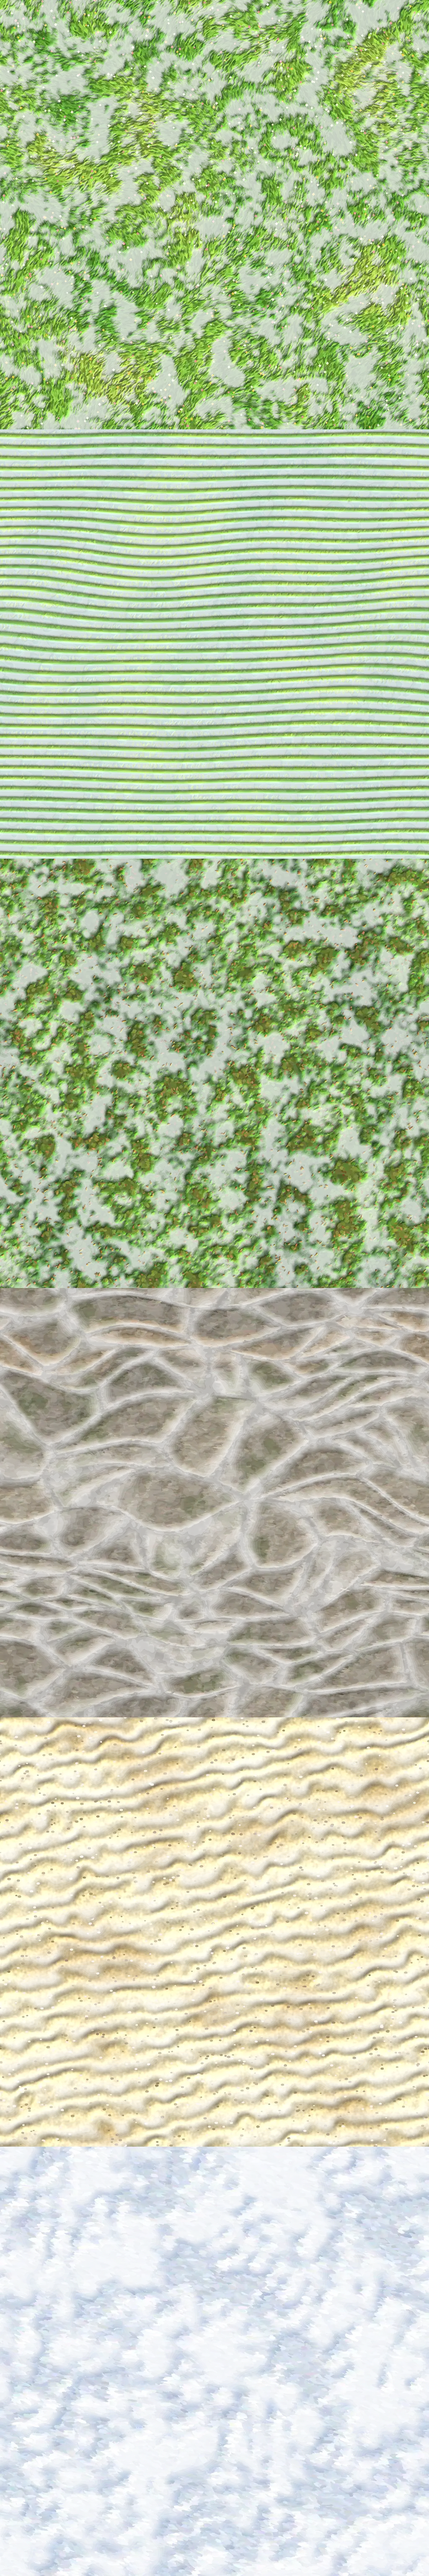
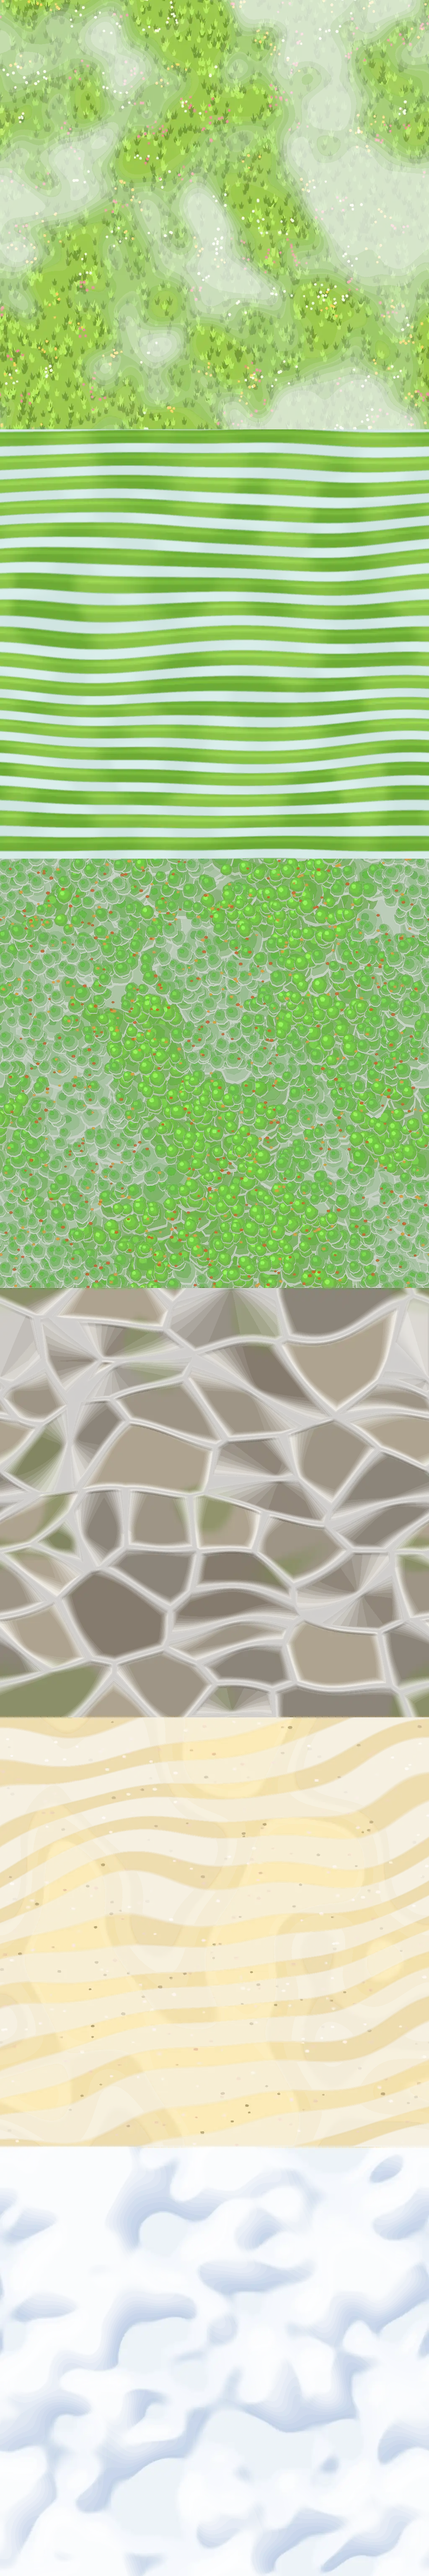
地表贴图重画成卡通平涂风；修复高档画质下网格法线 NaN 导致大区视图陆地不显示

diff --git a/v2-civ/src/terrain.js b/v2-civ/src/terrain.js
@@ -116,21 +116,21 @@ const vec3 C_OCEAN = ${S('#0b3f78')};
 const vec3 C_OCEAN2 = ${S('#123f86')};
 const vec3 C_COAST = ${S('#1db3bd')};
 const vec3 C_LAKE  = ${S('#1fa2b4')};
-const vec3 C_GRASS = ${S('#62922e')};
-const vec3 C_PLAIN = ${S('#a39d3e')};
-const vec3 C_MARSH = ${S('#5b8b55')};
-const vec3 C_WOODG = ${S('#466f2a')};
+const vec3 C_GRASS = ${S('#78ad36')};
+const vec3 C_PLAIN = ${S('#b7b04a')};
+const vec3 C_MARSH = ${S('#62a065')};
+const vec3 C_WOODG = ${S('#4c8a2e')};
 const vec3 C_URBAN = ${S('#8d8466')};
 const vec3 C_DIST  = ${S('#a39674')};
 const vec3 C_SAND  = ${S('#dfcc90')};
 const vec3 C_ROCK  = ${S('#8a8274')};
 const vec3 C_PAPER = ${S('#e4d0a4')};
-const vec3 M_GRASS = ${M(94.0, 142.1, 49.5)};
-const vec3 M_PADDY = ${M(112.2, 162.4, 105.5)};
-const vec3 M_FOREST = ${M(77.6, 116.5, 44.8)};
-const vec3 M_ROCK = ${M(127.6, 120.0, 104.1)};
-const vec3 M_SAND = ${M(217.7, 202.7, 152.4)};
-const vec3 M_SNOW = ${M(213.1, 222.0, 234.8)};
+const vec3 M_GRASS = ${M(125.6, 176.6, 63.9)};
+const vec3 M_PADDY = ${M(127.3, 187.8, 110.9)};
+const vec3 M_FOREST = ${M(84.8, 152.5, 52.3)};
+const vec3 M_ROCK = ${M(138.9, 132.0, 115.2)};
+const vec3 M_SAND = ${M(235.0, 214.7, 159.7)};
+const vec3 M_SNOW = ${M(228.4, 235.9, 245.5)};
 
 vec2 gdx, gdy; // screen derivatives of world xz, taken once in uniform control flow
 vec4 layer(float L, vec2 p, float tile){ return textureGrad(uTerr, vec3(p / tile, L), gdx / tile, gdy / tile); }
@@ -140,15 +140,8 @@ vec4 layer2(float L, vec2 p, float tile){
 #ifndef MOBILE
   vec2 q = mat2(0.8, -0.6, 0.6, 0.8) * p + 13.7;
   vec4 b = textureGrad(uTerr, vec3(q / (tile * 3.3), L), mat2(0.8, -0.6, 0.6, 0.8) * gdx / (tile * 3.3), mat2(0.8, -0.6, 0.6, 0.8) * gdy / (tile * 3.3));
-  a = mix(a, b, 0.32);
-  // close up: a finer, rotated octave of the same strokes, so a texel never covers several pixels at street level
-  float fine = 1.0 - smoothstep(0.012, 0.05, max(length(gdx), length(gdy)) / tile * 4.0);
-  if (fine > 0.01) {
-    vec2 q2 = mat2(0.6, 0.8, -0.8, 0.6) * p - 5.3;
-    vec4 c = textureGrad(uTerr, vec3(q2 / (tile * 0.31), L), mat2(0.6, 0.8, -0.8, 0.6) * gdx / (tile * 0.31), mat2(0.6, 0.8, -0.8, 0.6) * gdy / (tile * 0.31));
-    a.rgb = mix(a.rgb, a.rgb * (0.78 + 0.44 * c.a), 0.55 * fine);
-    a.a = mix(a.a, a.a * 0.7 + c.a * 0.3, fine);
-  }
+  // the cartoon layers are flat colour shapes: a light macro mix only breaks the repeat, it must not blur the shapes
+  a = mix(a, b, 0.18);
 #endif
   return a;
 }
@@ -239,14 +232,13 @@ const FRAG_MAIN = /* glsl */`
   gTint = mix(gTint, C_MARSH, clamp(bB.z * 1.2, 0.0, 0.8));
   gTint = mix(gTint, gTint * vec3(0.86, 0.94, 0.86), smoothstep(80.0, 600.0, hM));
   float lush = smoothstep(0.35, 0.7, fbm3(p * 0.045 + 21.0));
-  gTint = mix(gTint, ${S('#457f2c')}, lush * (1.0 - dry) * 0.6);
-  gTint *= 0.84 + 0.3 * m1;
+  gTint = mix(gTint, ${S('#5a9a30')}, lush * (1.0 - dry) * 0.45);
+  gTint *= 0.93 + 0.14 * m1;
   vec4 tG = layer2(0.0, p, 6.5);
   float hB = hgt(tG);
-  // texture brings mostly value (light/dark strokes) and only a little of its own hue, so the tint stays in charge
+  // cartoon set: the painted colour shapes carry the look; the regional tint only nudges their hue
   vec3 gr = tG.rgb / M_GRASS;
-  vec3 gDet = mix(vec3(dot(gr, vec3(0.3, 0.55, 0.15))), gr, 0.35);
-  col = gTint * mix(vec3(1.0), gDet, mix(0.45, 0.75, detail));
+  col = gTint * mix(vec3(1.0), gr, mix(0.6, 1.0, detail));
 
   // forest floor under woods and hills, with clearings
   float wF = clamp((bA.w + bB.x * 0.85 + bB.y * 0.5) * smoothstep(0.32, 0.6, fbm3(p * 0.11 + 11.0) + 0.12), 0.0, 1.0);
@@ -461,7 +453,8 @@ export function makeTerrainMaterial(shared, mobile) {
       // the mesh's own small relief (World.meshY, street-level chunks) on top of the baked normal: the vertex normal's
       // difference from the baked one, faded with distance like the other fine detail
       .replace('#include <normal_fragment_maps>', `vec3 nMesh = normalize((vec4(normal, 0.0) * viewMatrix).xyz);
-        vec3 tNr = normalize(tN + (nMesh - tNT) * 0.85 * (1.0 - smoothstep(60.0, 160.0, uCamDist)));
+        vec3 tNr = tN + (nMesh - tNT) * 0.85 * (1.0 - smoothstep(60.0, 160.0, uCamDist));
+        tNr = dot(tNr, tNr) > 1e-6 && tNr.y > 0.05 ? normalize(tNr) : tN;   // never a zero or downward normal (NaN in the HDR target blew up the bloom pass)
         normal = normalize((viewMatrix * vec4(tNr, 0.0)).xyz);`)
       .replace('#include <emissivemap_fragment>', '#include <emissivemap_fragment>\ntotalEmissiveRadiance += tEmis;');
   };

diff --git a/v2-civ/scripts/paint_textures.py b/v2-civ/scripts/paint_textures.py
@@ -111,148 +111,160 @@ def voronoi(n_pts, seed):
     return d[:, 0].reshape(N, N), d[:, 1].reshape(N, N), i[:, 0].reshape(N, N), r
 
 
-# ---------------------------------------------------------------- 各层
-def grass():
-    n1, n2, n3 = noise(2, 6, 1), noise(6, 18, 2), noise(18, 60, 3)
-    base = lerp(hexc('#4f8c2c'), hexc('#79ad3c'), sstep(-1.2, 1.2, n1 * 0.8 + n2 * 0.4))
-    base = lerp(base, hexc('#9fb84a'), sstep(0.9, 1.8, n1 + n3 * 0.3) * 0.7)   # 偏黄的亮斑
-    base = lerp(base, hexc('#3b7428'), sstep(0.6, 1.6, -n2 + n3 * 0.3) * 0.8)  # 深色草丛
-    base *= poster(sstep(-2, 2, n2 + n3 * 0.5), 5, 0.3)[..., None] * 0.22 + 0.89
-    ang = noise(1, 4, 9) * 0.9 - np.pi / 2  # 叶片大体朝上，局部有流向
-    img = to_img(base)
-    strokes(img, lambda x, y: base[y, x], 26000, 11, (10, 22), (3, 6), lambda x, y: ang[y, x], 0.07)
-    strokes(img, lambda x, y: base[y, x] * 1.16, 5000, 12, (8, 16), (2.5, 4.5), lambda x, y: ang[y, x], 0.05)   # 高光叶
-    strokes(img, lambda x, y: base[y, x] * 0.72, 4000, 13, (8, 16), (3, 5), lambda x, y: ang[y, x], 0.05)    # 暗叶
-    c = from_img(img)
-    h = sstep(-1.5, 1.5, n2 * 0.7 + n3 * 0.6 + (c.mean(2) - c.mean()) * 6)
-    c *= shade(h, 0.5)[..., None]
-    # 小花
-    r = np.random.default_rng(14); d = ImageDraw.Draw(img := to_img(c))
-    for _ in range(int(260 * S * S)):
+# ---------------------------------------------------------------- 各层（卡通风，2026-11-18 重画）
+# 风格：大块平涂色面（3–4 个色阶，边缘柔和但清楚），大而圆润的形状，少量干净的高光 / 暗部笔触，
+# 不要照片式的细碎噪点。A 通道（高度）用同样的大形状，让层与层之间的高度混合沿着形状边缘咬合。
+
+def bands(x, cols, soft=0.06):
+    """x（任意范围）按 len(cols) 个阈值平涂上色：相邻色块之间一条窄的柔边"""
+    q = np.quantile(x, np.linspace(0, 1, len(cols) + 1)[1:-1])
+    out = np.broadcast_to(hexc(cols[0]), x.shape + (3,)).copy()
+    for t, c in zip(q, cols[1:]):
+        out = lerp(out, hexc(c), sstep(t - soft, t + soft, x))
+    return out
+
+
+def blobs(img_rgb, n, seed, r_rng, color_at, squash=1.0, mask=None, rot=None):
+    """圆润色块（卡通的草团 / 树冠 / 石块）：上半亮、下半暗的两色块，带一条深色描边"""
+    r = np.random.default_rng(seed)
+    img = to_img(img_rgb)
+    d = ImageDraw.Draw(img)
+    for _ in range(int(n * S * S)):
         x, y = r.random() * N, r.random() * N
-        col = [(244, 238, 214), (246, 206, 70), (236, 150, 160)][r.integers(3)]
-        s = r.uniform(2.2, 3.6) * S
-        wrap_draw(d, [(x - s, y), (x, y - s), (x + s, y), (x, y + s)], col)
+        ix, iy = int(x) % N, int(y) % N
+        if mask is not None and r.random() > mask[iy, ix]: continue
+        rad = r.uniform(*r_rng) * S
+        base = color_at(ix, iy)
+        k = 10
+        a0 = rot if rot is not None else r.random() * np.pi
+        jit = 1 + r.normal(0, 0.06, k)
+        def poly(sc, dx=0.0, dy=0.0):
+            return [(x + dx + np.cos(t + a0) * rad * sc * jit[i], y + dy + np.sin(t + a0) * rad * sc * squash * jit[i])
+                    for i, t in enumerate(np.linspace(0, 2 * np.pi, k, endpoint=False))]
+        col = lambda c: tuple(int(v) for v in np.clip(c * 255, 0, 255))
+        wrap_draw(d, poly(1.08, 0, rad * 0.12), col(base * 0.55))          # 描边 / 投影（略向下）
+        wrap_draw(d, poly(1.0), col(base * 0.86))                           # 暗面
+        wrap_draw(d, poly(0.72, -rad * 0.12, -rad * 0.16), col(base))       # 亮面
+        wrap_draw(d, poly(0.3, -rad * 0.3, -rad * 0.34), col(np.minimum(base * 1.18 + 0.03, 1)))   # 高光
+    return from_img(img)
+
+
+def grass():
+    # 平涂草地：三个色阶的大色块 + 稀疏的“草簇”记号（Λ 形三笔），远看干净，近看有手绘感
+    n1, n2 = noise(1, 4, 101), noise(4, 10, 102)
+    f = n1 + n2 * 0.45
+    c = bands(f, ['#5f9a32', '#74ad3a', '#86bc43', '#9bc94c'], 0.05)
+    h = sstep(-1.6, 1.6, f)
+    img = to_img(c); d = ImageDraw.Draw(img)
+    r = np.random.default_rng(103)
+    for _ in range(int(650 * S * S)):
+        x, y = r.random() * N, r.random() * N
+        ix, iy = int(x) % N, int(y) % N
+        base = c[iy, ix]
+        L = r.uniform(15, 24) * S; W = 2.6 * S
+        dark = r.random() < 0.6
+        col = tuple(int(v) for v in np.clip((base * (0.78 if dark else 1.16) + (0 if dark else 0.02)) * 255, 0, 255))
+        for a in (-0.45, 0.0, 0.45):            # 三片叶：中间高、两边斜，从同一个根部长出
+            l = L * (1.0 if a == 0 else 0.7)
+            aa = -np.pi / 2 + a + r.normal(0, 0.08)
+            tip = (x + np.cos(aa) * l, y + np.sin(aa) * l)
+            nx, ny = -np.sin(aa) * W, np.cos(aa) * W
+            mid = (x + np.cos(aa) * l * 0.45, y + np.sin(aa) * l * 0.45)
+            wrap_draw(d, [(x - nx, y - ny), (mid[0] - nx * 0.8, mid[1] - ny * 0.8), tip, (mid[0] + nx * 0.8, mid[1] + ny * 0.8), (x + nx, y + ny)], col)
+    # 小花：少量、成簇
+    for _ in range(int(40 * S * S)):
+        cx, cy = r.random() * N, r.random() * N
+        col = [(250, 244, 222), (250, 214, 84), (238, 140, 150)][r.integers(3)]
+        for _ in range(r.integers(3, 7)):
+            x, y = cx + r.normal(0, 14 * S), cy + r.normal(0, 14 * S); s = r.uniform(2.6, 3.8) * S
+            wrap_draw(d, [(x + np.cos(t) * s, y + np.sin(t) * s) for t in np.linspace(0, 6.28, 6, endpoint=False)], col)
     return from_img(img), h
 
 
 def paddy():
-    # 一排排秧苗（纹理里横向成行），行间露水；A 通道 = 秧苗覆盖
-    n1, n2 = noise(2, 8, 21), noise(10, 40, 22)
-    rows = 40                       # 每张图 40 行
-    yy = (np.arange(N)[:, None] + noise(1, 3, 23) * 6 * S) / N * rows
-    rowm = sstep(0.18, 0.42, 0.5 - np.abs((yy % 1) - 0.5)) * np.ones((1, N))
-    base = lerp(hexc('#5d9a33'), hexc('#8fbd45'), sstep(-1.5, 1.5, n1 + n2 * 0.4))
-    water = lerp(hexc('#5a8c84'), hexc('#8ab8b0'), sstep(-1, 1.5, n2))
-    c = lerp(water, base, rowm)
-    img = to_img(c)
-    r = np.random.default_rng(24)
-    d = ImageDraw.Draw(img)
-    # 每行上的秧苗簇：几片向上张开的叶
-    for row in range(rows):
-        y0 = (row + 0.5) / rows * N
-        x = r.random() * 8 * S
-        while x < N:
-            ix = int(x) % N; iy = int(y0) % N
-            col0 = base[iy, ix]
-            for k in range(4):
-                a = -np.pi / 2 + r.normal(0, 0.55)
-                L, W = r.uniform(7, 13) * S, r.uniform(2, 3.5) * S
-                cx, cy = x + r.normal(0, 1.2) * S, y0 + (r.normal(0, 1.5) + 2) * S
-                col = tuple(int(v) for v in np.clip(col0 * (1 + r.normal(0, 0.09)) * (1.1 if k == 0 else 0.92) * 255, 0, 255))
-                ca, sa = np.cos(a), np.sin(a)
-                pts = [(0, 0), (L * 0.45, -W * 0.5), (L, 0), (L * 0.45, W * 0.5)]
-                wrap_draw(d, [(cx + px * ca - py * sa, cy + px * sa + py * ca) for px, py in pts], col)
-            x += r.uniform(9, 14) * S
-    c = from_img(img)
-    h = np.clip(rowm * 0.75 + sstep(-1, 1, n2) * 0.2 + (c.mean(2) - water.mean(2)) * 0.8, 0, 1)
-    c *= shade(h, 0.35)[..., None]
+    # 水田：平涂的秧苗行（两种绿）+ 行间亮青色水面，行稍有弯曲；不再是细密条纹
+    n1 = noise(1, 3, 121)
+    rows = 18
+    yy = (np.arange(N)[:, None] + n1 * 10 * S) / N * rows
+    fr = yy % 1
+    rowm = sstep(0.16, 0.24, fr) * (1 - sstep(0.76, 0.84, fr))
+    tone = sstep(-1.0, 1.0, noise(2, 6, 122))
+    plant = lerp(hexc('#6eaa36'), hexc('#8cc24a'), tone)
+    plant = lerp(plant, plant * 1.12, sstep(0.25, 0.4, fr) * (1 - sstep(0.4, 0.55, fr)))   # 每行上沿亮
+    water = lerp(hexc('#6fb0a6'), hexc('#8ccac0'), sstep(-1, 1, noise(3, 8, 123)))
+    c = lerp(water, plant, rowm)
+    h = np.clip(rowm * 0.85 + 0.1, 0, 1)
     return c, h
 
 
 def forest():
-    n1, n2, n3 = noise(2, 6, 31), noise(6, 20, 32), noise(20, 60, 33)
-    base = lerp(hexc('#2f5e26'), hexc('#4f7f2e'), sstep(-1.2, 1.2, n1 + n2 * 0.5))
-    base = lerp(base, hexc('#6b6a34'), sstep(0.8, 1.8, n2 + n3 * 0.4) * 0.7)   # 落叶
-    base = lerp(base, hexc('#22441f'), sstep(0.7, 1.6, -n1 * 0.7 - n2 * 0.6) * 0.8)
-    img = to_img(base)
-    strokes(img, lambda x, y: base[y, x], 9000, 34, (12, 26), (8, 16), None, 0.09, 'blob')
-    strokes(img, lambda x, y: base[y, x] * 1.22 + np.array([0.03, 0.02, -0.01]), 2600, 35, (6, 12), (5, 9), None, 0.08, 'blob')
-    strokes(img, lambda x, y: hexc('#8a6a3a') * (0.8 + 0.4 * (n3[y, x] > 0)), 900, 36, (5, 10), (3, 5), None, 0.1, 'blob')  # 枯叶
+    # 林下：深绿平涂底 + 大小两级圆润“灌木团”（亮面 / 暗面 / 高光三色），落叶色点少量
+    n1, n2 = noise(1, 4, 131), noise(4, 10, 132)
+    base = bands(n1 + n2 * 0.4, ['#2f6326', '#3b7429', '#4a842f'], 0.05)
+    c = blobs(base, 230, 133, (24, 38), lambda x, y: base[y, x] * 1.25 + np.array([0.02, 0.03, 0.0]))
+    c = blobs(c, 380, 134, (12, 19), lambda x, y: base[y, x] * 1.45 + np.array([0.04, 0.05, 0.0]))
+    img = to_img(c); d = ImageDraw.Draw(img); r = np.random.default_rng(135)
+    for _ in range(int(160 * S * S)):
+        x, y = r.random() * N, r.random() * N; s = r.uniform(3, 5) * S
+        col = [(214, 160, 66), (196, 110, 52)][r.integers(2)]
+        wrap_draw(d, [(x + np.cos(t) * s, y + np.sin(t) * s * 0.8) for t in np.linspace(0, 6.28, 7, endpoint=False)], col)
     c = from_img(img)
-    h = sstep(-1.6, 1.6, n2 * 0.8 + n3 * 0.5 + (c.mean(2) - c.mean()) * 5)
-    c *= shade(h, 0.6)[..., None]
+    h = sstep(0.18, 0.5, c.mean(2))
     return c, h
 
 
 def rock():
-    # 层理岩：横向拉长的岩块（各向异性 Voronoi）+ 色带 + 裂隙下方的阴影、上沿的亮边
-    r = np.random.default_rng(41)
-    K = 2.6
-    P = r.random((90, 2)) * [1, K]
+    # 卡通岩石：大的多边形石块（Voronoi），每块平涂一色，上沿一条亮边、下沿一条暗边，缝隙深色；无细碎纹理
+    r = np.random.default_rng(141)
+    K = 1.6
+    P = r.random((46, 2)) * [1, K]
     tree = cKDTree(P, boxsize=[1, K])
     g = (np.arange(N) + 0.5) / N
     Y, X = np.meshgrid(g, g, indexing='ij')
-    warp = noise(1, 4, 46) * 0.03
+    warp = noise(1, 3, 142) * 0.02
     d, i = tree.query(np.stack([X.ravel(), ((Y + warp) % 1).ravel() * K], 1), k=2)
     f1, f2, idx = d[:, 0].reshape(N, N), d[:, 1].reshape(N, N), i[:, 0].reshape(N, N)
-    n1, n2, n3 = noise(2, 8, 42), noise(8, 30, 43), noise(30, 90, 44)
-    tone = r.random(len(P))
     edge = f2 - f1
-    crack = 1 - sstep(0.002, 0.014, edge + n3 * 0.002)
-    bevel = sstep(0.0, 0.07, edge)
-    band = np.floor(((Y + warp * 2 + n1 * 0.02) % 1) * 9)
-    bt = (np.sin(band * 12.9898) * 43758.5453) % 1
-    c = lerp(hexc('#7f786c'), hexc('#a59a86'), np.clip(tone[idx] * 0.6 + bt * 0.4, 0, 1))
-    c = lerp(c, hexc('#9a7f5e'), (bt > 0.72) * 0.45)                     # 赭石色带
-    c = lerp(c, hexc('#68704c'), sstep(0.7, 1.6, n1 + n2 * 0.5) * 0.45)  # 苔藓
-    h = np.clip(bevel * 0.75 + sstep(-2, 2, n2 + n3 * 0.4) * 0.25, 0, 1)
-    lit = shade(h, 1.0)
-    c *= poster(np.clip((lit - 0.55) / 0.9, 0, 1), 4, 0.35)[..., None] * 0.4 + 0.8
-    below = np.roll(crack, int(7 * S), 0) * (1 - crack)      # 裂隙下方阴影（岩檐）
-    above = np.roll(crack, -int(3 * S), 0) * (1 - crack)     # 上沿亮边
-    c = lerp(c, c * 0.62, np.clip(below, 0, 1) * 0.8)
-    c = lerp(c, c * 1.18, np.clip(above, 0, 1) * 0.6)
-    c = lerp(c, hexc('#3a352e'), crack * 0.85)
-    img = to_img(c)
-    strokes(img, lambda x, y: c[y, x], 6000, 45, (10, 24), (3, 6), lambda x, y: 0.05, 0.04, 'blob', mask=1 - crack)
-    c = from_img(img)
-    c = lerp(c, hexc('#3a352e'), crack * 0.5)
+    tone = r.random(len(P))
+    pal = [hexc('#8c8579'), hexc('#9d9585'), hexc('#ada38f'), hexc('#857c6e')]
+    c = np.stack([pal[int(t * 4) % 4] for t in tone])[idx]
+    crack = 1 - sstep(0.004, 0.012, edge)
+    # 每块的“顶面”：沿裂缝往上一段亮边，往下一段暗边（像 Civ 式的厚石块）
+    above = (1 - sstep(0.012, 0.03, edge)) * (np.roll(edge, int(10 * S), 0) > edge)
+    c = lerp(c, np.minimum(c * 1.2 + 0.03, 1), np.clip(above, 0, 1) * 0.9)
+    below = np.roll(crack, int(9 * S), 0) * (1 - crack)
+    c = lerp(c, c * 0.68, np.clip(below, 0, 1))
+    c = lerp(c, hexc('#4a433b'), crack)
+    c = lerp(c, hexc('#7d8a52'), sstep(0.9, 1.6, noise(2, 6, 143)) * 0.55 * (1 - crack))   # 苔藓色块
+    h = np.clip(sstep(0.0, 0.05, edge), 0, 1)
     return c, h
 
 
 def sand():
-    n1, n2, n3 = noise(2, 6, 51), noise(6, 20, 52), noise(40, 160, 53)
-    warp = noise(1, 4, 54) * 18
-    yy = (np.arange(N)[:, None] + warp + np.arange(N)[None, :] * 0.18) / N * 22
-    rip = 0.5 + 0.5 * np.sin(yy * 2 * np.pi + n2 * 0.8)
-    c = lerp(hexc('#d9c48c'), hexc('#ecdcaa'), sstep(-1.4, 1.4, n1 + n2 * 0.3))
-    c = lerp(c, hexc('#c4a874'), sstep(0.7, 1.6, -n1) * 0.6)
-    h = np.clip(rip * 0.6 + sstep(-1.5, 1.5, n2) * 0.4, 0, 1)
-    c *= shade(h, 0.4)[..., None]
-    c *= 1 + n3[..., None] * 0.045
-    img = to_img(c)
-    r = np.random.default_rng(55); d = ImageDraw.Draw(img)
-    for _ in range(int(420 * S * S)):   # 小石子/贝壳
-        x, y = r.random() * N, r.random() * N
-        s = r.uniform(2, 4.5) * S
-        col = tuple(int(v) for v in np.clip(hexc(['#b39a72', '#f6efe0', '#9a8466'][r.integers(3)]) * 255, 0, 255))
+    # 沙：两色平涂 + 宽而柔的沙纹（亮带），几颗小贝壳 / 石子
+    n1 = noise(1, 4, 151)
+    warp = noise(1, 3, 152) * 30 * S
+    yy = (np.arange(N)[:, None] + warp + np.arange(N)[None, :] * 0.2) / N * 9
+    rip = sstep(0.55, 0.75, 0.5 + 0.5 * np.sin(yy * 2 * np.pi))
+    c = bands(n1, ['#dcc58b', '#e7d39c', '#f0dfae'], 0.06)
+    c = lerp(c, np.minimum(c * 1.07, 1), rip * 0.8)
+    h = np.clip(rip * 0.6 + sstep(-1.5, 1.5, n1) * 0.4, 0, 1)
+    img = to_img(c); d = ImageDraw.Draw(img); r = np.random.default_rng(153)
+    for _ in range(int(90 * S * S)):
+        x, y = r.random() * N, r.random() * N; s = r.uniform(3, 5.5) * S
+        col = [(246, 238, 220), (190, 162, 120), (238, 196, 170)][r.integers(3)]
         wrap_draw(d, [(x + np.cos(t) * s, y + np.sin(t) * s * 0.7) for t in np.linspace(0, 6.28, 7, endpoint=False)], col)
     return from_img(img), h
 
 
 def snow():
-    n1, n2, n3 = noise(2, 6, 61), noise(6, 24, 62), noise(30, 120, 63)
-    drift = sstep(-1.2, 1.4, n1 * 0.7 + n2 * 0.6)
-    h = drift
-    lit = shade(h, 1.4)
-    c = lerp(hexc('#b7c6dc'), hexc('#f4f7fb'), np.clip(poster(np.clip((lit - 0.5), 0, 1), 4, 0.35), 0, 1))
-    c *= 1 + n3[..., None] * 0.02
-    img = to_img(c)
-    strokes(img, lambda x, y: c[y, x], 5000, 64, (14, 30), (5, 9), lambda x, y: 0.25, 0.03, 'blob')
-    c = from_img(img)
-    sp = (noise(150, 300, 65) > 3.0).astype(np.float32)   # 闪点
-    c = c + sp[..., None] * 0.25
+    # 雪：白与浅蓝两色平涂的雪堆，背光一侧浅蓝；少量亮点
+    n1, n2 = noise(1, 4, 161), noise(4, 10, 162)
+    f = n1 + n2 * 0.5
+    h = sstep(-1.4, 1.4, f)
+    lit = shade(h, 1.2)
+    c = lerp(hexc('#c3d3e8'), hexc('#f3f7fc'), sstep(0.92, 1.02, lit))
+    c = lerp(c, hexc('#ffffff'), sstep(1.1, 1.2, lit) * 0.7)
     return c, h
 
 

diff --git a/docs/全国版优化方案.md b/docs/全国版优化方案.md
@@ -311,3 +311,9 @@
 - **地形网格加细**：近景地形块的格距从 1 km 改成 0.5 km（触屏版 1.5 → 1 km），每块 128 km 的顶点从 1.7 万增到 6.7 万。只是格子变密没用（高程数据本身是 0.75 km 一格），所以近景网格另加一层小起伏 `World.meshY`：平原上缓缓的小土包，山地上随坡度加强的褶皱；城市、据点平整过的地面、水面和岸边都不加（`flatten()` 同时记一张 `flat` 遮罩）。树、房子、道路、河流、行人跟着 `meshY` 落地，不悬空；建筑和城市仍按原高程。
 - 着色器里把网格法线和烘焙法线的差叠到地面法线上（160 km 以内），这层起伏在光照下看得出来。
 - 性能：杭州近景平移约 13 ms 一帧；首次飞到杭州 5 帧超过 50 ms（最长 127 ms），第二次 0 帧。
+
+## 13. 地表贴图改卡通风；修复高档画质大区视图全白（2026-11-18）
+
+- **贴图重画**（`scripts/paint_textures.py`）：用户觉得原贴图（照片感的细碎草叶、裂纹石头）难看，要更接近《文明6》式的卡通风。六层全部重画成平涂风格：3–4 个色阶的大色块、柔和但清楚的边，草地上稀疏的三叶草簇和成簇小花，林地是带亮面 / 暗面 / 高光和深色描边的圆润灌木团，岩石是平涂多边形石块加上沿亮边、下沿暗边，沙地是宽柔沙纹，雪是白与浅蓝两色雪堆，水田是平涂秧苗行加亮青水面。贴图也小了：首屏 261 KB（原 557 KB），高清 631 KB（原 1.4 MB）。
+- 着色器（`src/terrain.js`）：草地颜色改为以贴图本身的色块为主（原来只取明暗、压掉色相）；各区域底色调亮、提高饱和（`C_GRASS` 等）；大尺度噪声压暗从 ±15% 降到 ±7%；去掉上一版加的近景细节层（会把平涂色块弄糊）；宏观混合从 0.32 降到 0.18。
+- **修复**：上一版（c639a97）近景网格法线叠加在少数像素上算出零向量，normalize 得到 NaN；高档画质的泛光（bloom）把 NaN 模糊到整个屏幕，结果在长三角等大区视图下陆地整片不显示、只剩纸面。现在法线为零或朝下时退回烘焙法线，NaN 像素为 0。中低档没有泛光，不受影响。
